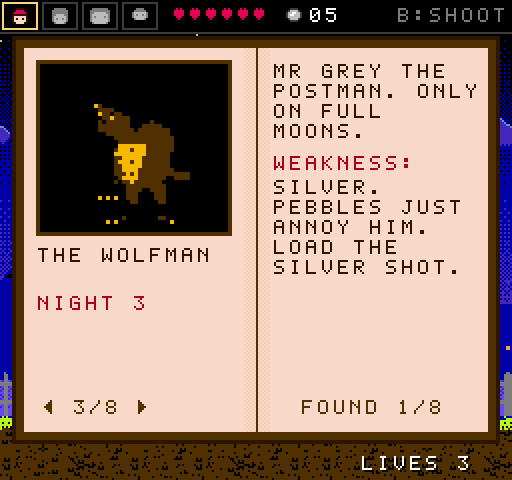
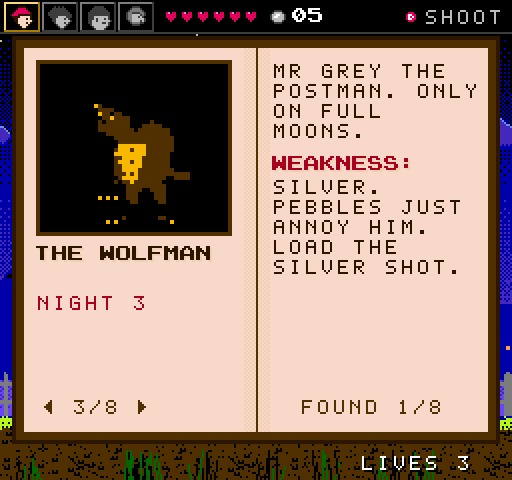
Docs: art pass 2 screenshots, trailer and README section
Refresh the screenshots and trailer for the second art pass, add
art-pass-2, kids and story images, and describe the pass in the README.

Claude-Session: https://claude.ai/code/session_01Pq5NWpuz2zN6pmXphCNBFz

diff --git a/README.md b/README.md
@@ -45,9 +45,23 @@ Everything is drawn into a 256×240 buffer under NES rules: 16px tiles, every sp
 - **Parallax backdrops** (`src/game/art/backdrops.ts`): dithered skies, a moon and halo, and 3–6 depth layers per theme, generated with the `PixelArt` helper (`src/engine/pixelart.ts`: Bayer dithering, shapes, outlines, seamless wrapping).
 - **Effects without alpha**: checkerboard dither for flashes and lamplight, flicker for boss deaths, and an NES-style palette-step fade (`src/engine/fade.ts`) on scene changes and respawns.
 
-`npm run check:palette` covers all ~1,500 generated and hand-drawn sprites.
+`npm run check:palette` covers all ~1,665 generated and hand-drawn sprites.
 
 ![Before and after the art pass](docs/screenshots/art-pass-before-after.png)
+
+### Art pass 2
+
+- **Animated kids** (`src/game/art/kids.ts`): each kid is a rig (head plus posed limbs) with 8-frame idle and run cycles, jump/apex/fall/land, crawl, climb and hurt, plus per-kid moves (Casey aims, Pip flips, Bruno punches). Big and Little are drawn at their own scale.
+- **Boss animation** (`src/game/bosses/`): every attack has a wind-up frame, hits get a reaction pose, and each boss has its own defeat scene: the Count bursts into bats, the Giant sits down, the Wolfman turns back into a man.
+- **Palette cycling and lightning** (`src/game/palette.ts`, `src/game/backdrop.ts`): water, flames and lamps cycle colours. Storm nights flash to a strike palette and then thunder, with a reduced-flash option.
+- **Set dressing** (`src/game/art/props.ts`, `src/game/dressing.ts`): seeded props (mailboxes, headstones, suits of armour, barrels, traffic cones) behind the play area, and foreground silhouettes in front of it.
+- **Landmarks** (`src/game/art/landmarks.ts`): a hand-drawn skyline piece per night, such as the Grey house, the church, the water tower, the museum and the mansion staircase.
+- **Story screens** (`src/game/story.ts`): typewriter panels before and after each night, and STORY SO FAR in the hub.
+- **Polish**: sprite particles instead of single pixels, a bold display font for headings, and a framed HUD with icons.
+
+![Art pass 2](docs/screenshots/art-pass-2.png)
+
+![The squad](docs/screenshots/kids.png)
 
 ## Knowledge as progression
 
